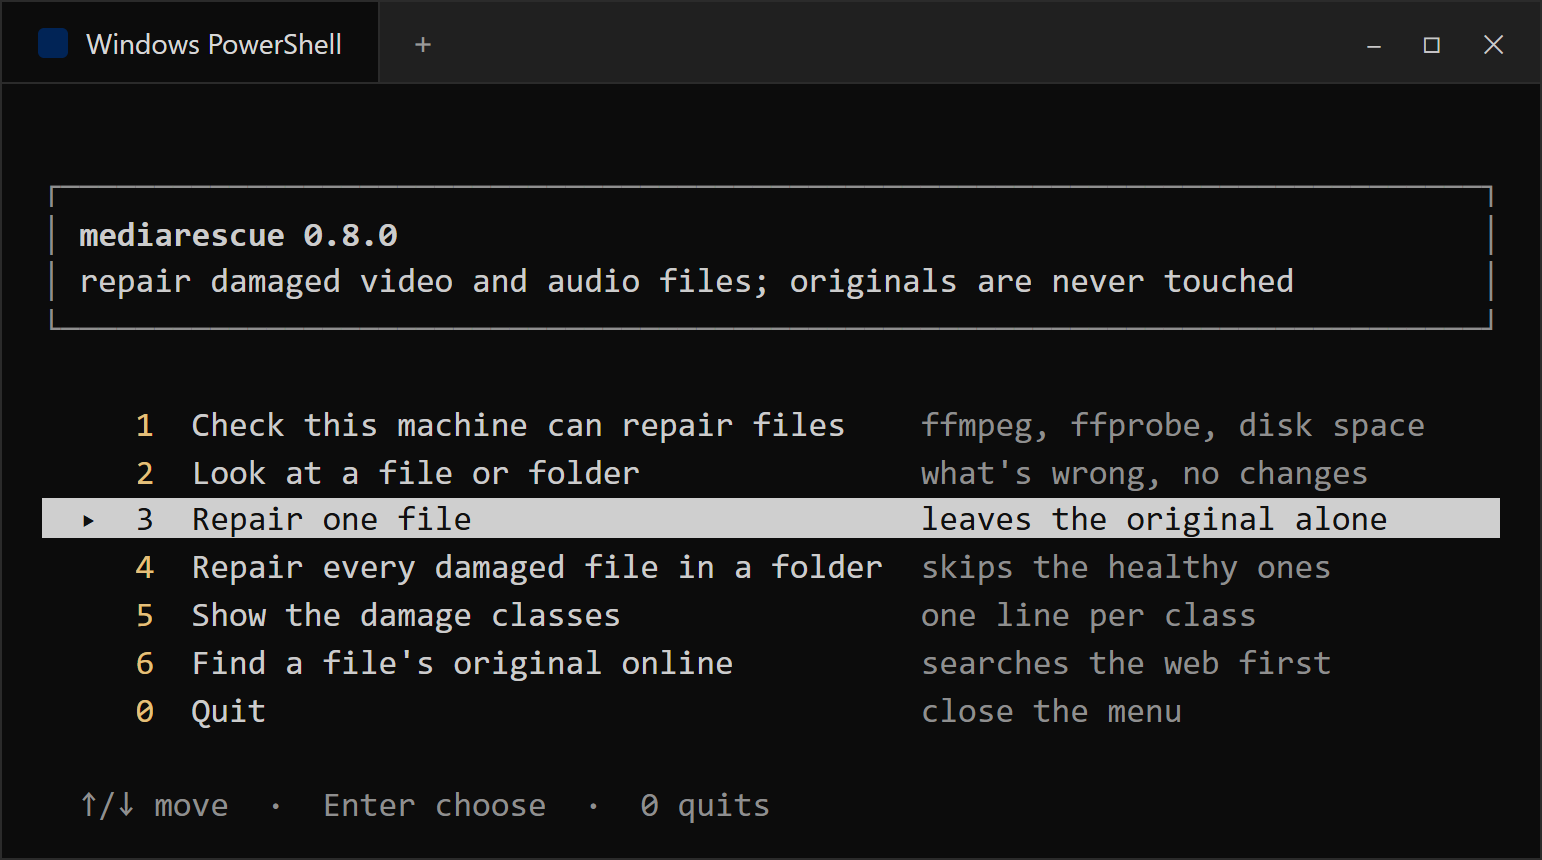
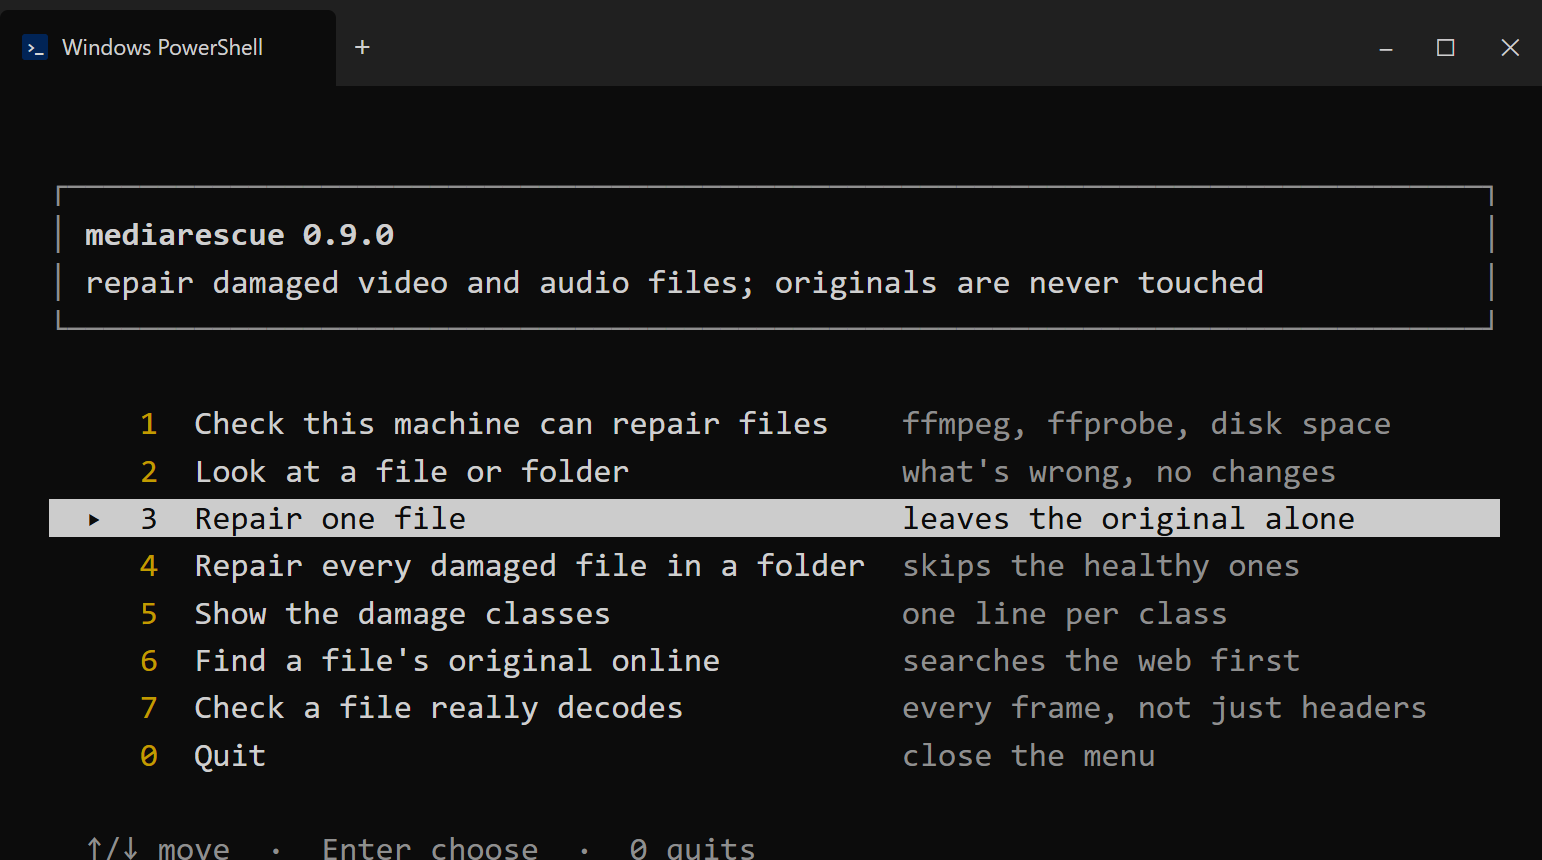
docs: 0.9.0 changelog, README sections for the Matroska transplant and verify, fresh menu.png
README gains the mkv-headless damage class, the salvage-mkv strategy, a section on a Matroska whose header is gone (what the transplant keeps and what is simply gone), the verify command, and the honest-limits entry is rewritten now that Matroska headers are inspected. The menu sample block and the menu screenshot match the program's real output; the image keeps the terminal style and palette of the previous one.

diff --git a/README.md b/README.md
@@ -75,7 +75,7 @@ mediarescue doctor
 ```
 
 ```
-mediarescue 0.8.0 — doctor
+mediarescue 0.9.0 — doctor
 
   ok    python        3.14.9
   ok    ffmpeg        ffmpeg version N-127043-g5a54fcf75e-20260930
@@ -104,17 +104,20 @@ No flags to remember: run `mediarescue` with no arguments in a terminal and you 
 ![mediarescue all-in-one menu: a highlighted row, plain-language hints, and arrow-key controls](docs/menu.png)
 
 ```
-┌────────────────────────────────────────────────────────────────────────────┐
-│ mediarescue 0.8.0                                                          │
-│ repair damaged video and audio files; originals are never touched          │
-└────────────────────────────────────────────────────────────────────────────┘
+┌──────────────────────────────────────────────────────────────────────────────┐
+│ mediarescue 0.9.0                                                            │
+│ repair damaged video and audio files; originals are never touched            │
+└──────────────────────────────────────────────────────────────────────────────┘
+
      1  Check this machine can repair files    ffmpeg, ffprobe, disk space
      2  Look at a file or folder               what's wrong, no changes
   ▸  3  Repair one file                        leaves the original alone
      4  Repair every damaged file in a folder  skips the healthy ones
      5  Show the damage classes                one line per class
      6  Find a file's original online          searches the web first
+     7  Check a file really decodes            every frame, not just headers
      0  Quit                                   close the menu
+
   ↑/↓ move  ·  Enter choose  ·  0 quits
 ```
 
@@ -156,8 +159,9 @@ with your own path already filled in. Add `--out report.json` to keep the full d
 `C:\media` in that screenshot is a placeholder folder, not a real machine; the paths are otherwise
 exactly what the tool printed.
 
-That reads headers only. Add `--deep` to decode every file as well — slower, but it is the only
-way to catch damage inside MP3/MKV/AVI, or a junk payload hiding behind a perfect index:
+That reads headers only — for Matroska it also confirms the EBML header, `Info` and `Tracks`
+parse. Add `--deep` to decode every file as well — slower, but it is the only way to catch damage
+inside MP3/AVI, or a junk payload hiding behind a perfect index or behind intact Matroska headers:
 
 ```bash
 mediarescue scan "D:/broken-file" --deep
@@ -219,6 +223,20 @@ mediarescue fix "D:/broken-file" --out-dir "D:/fixed"
 inside. A full decode is the real test — **silence means it worked**:
 
 ```bash
+mediarescue verify "D:/fixed/clip.mp4"
+```
+
+```
+clean       12.08s  clip.mp4  every frame decoded
+```
+
+`verify` runs the same decode-and-count check `fix` applies to its own output, so you can put a
+file repaired by anything — this tool, another program, a friend's laptop — through the same gate.
+Exit code `0` means every frame decoded, `1` means decode errors (it prints how many and the first
+one), `2` a missing file, `3` no ffmpeg. `--seconds 30` checks only the opening half-minute,
+`--json` gives the same result as data. The raw command behind it is:
+
+```bash
 ffmpeg -v error -i "D:/fixed/clip.mp4" -f null -
 ```
 
@@ -234,14 +252,15 @@ Nothing printed means the frames really decode. Then open the file and look at i
 | Starts mid-scene, first seconds are garbage | `mediarescue fix broken.mp4 -o fixed.mp4` (`auto` picks `salvage`) |
 | Video plays, audio clicks or drops out | run the decode check first; audio payload that is gone cannot be invented |
 | File is 0 bytes | nothing to recover — re-download or restore a backup |
+| MKV/WebM will not open at all, `scan` says `mkv-headless` | `mediarescue fix broken.mkv --reference intact.mkv -o fixed.mkv` |
 | Everything already looks fine | `mediarescue fix good.mp4 -o copy.mp4` rewrites the container cleanly |
 | Damaged file, and you have no intact copy anywhere | `mediarescue source bad.mp4` searches the web for the original and repairs with it |
 
 ## The one thing that trips everyone up: `--reference`
 
-Two damage classes — `fragmented` and `missing-atoms` — mean the file lost the index that says
-*where each frame starts*. That index cannot be guessed back, so the tool needs a second,
-undamaged file to borrow the layout from:
+Three damage classes — `fragmented`, `missing-atoms` and `mkv-headless` — mean the file lost the
+index or header that says *where each frame starts* and *what each track is*. That cannot be
+guessed back, so the tool needs a second, undamaged file to borrow the layout from:
 
 ```bash
 mediarescue fix dash-segment.mp4 --reference intact.mp4 -o fixed.mp4
@@ -259,6 +278,75 @@ What counts as a good reference:
 No reference anywhere? The tool looks for one itself: a healthy file **in the same folder** whose
 video codec matches is picked automatically, and the choice is reported in the output
 (`"reference": "…"`). Only when that fails does it fall back to `--strategy carve`.
+
+## A Matroska file whose header is gone
+
+An MKV, MKA or WebM starts with an EBML header, then `Info` (timescale, title) and `Tracks` (one
+entry per stream: codec, resolution, sample rate). Cut off the front of the file — an interrupted
+copy, a resume that landed at the wrong offset, a camera that lost power — and every cluster after
+the damage is still intact, but nothing says which track number carries video and which carries
+audio. `ffmpeg` will not even open the file: *EBML header parsing failed*.
+
+`scan` names it `mkv-headless`, with the byte offset of the first intact cluster:
+
+```
+severity                bytes  fix  file
+mkv-headless          590,643  yes  D:\broken\lecture.mkv
+healthy               908,681  yes  D:\broken\lecture-full.mkv
+
+2 scanned, 1 damaged, 1 repairable, 1 need a reference file
+next: mediarescue fix "D:\broken" --out-dir "D:\broken\recovered"
+those need --reference: an intact file recorded the same way, see --help
+```
+
+A reference is required, and this is the one case where that is not a limitation of the tool: the
+track table existed in the header and nowhere else, so there is nothing in the damaged bytes to
+rebuild it from. What the repair does instead is a transplant:
+
+- copy the reference's EBML header, `Info` and `Tracks` verbatim;
+- write a new `Segment` of unknown size and append the damaged file's clusters, starting at the
+  first intact one;
+- rewrite each cluster's `Timestamp` so playback starts at zero;
+- drop the old `Cues` (they described the clusters that are gone) and remux, so `ffmpeg` writes a
+  fresh index.
+
+Nothing is re-encoded, and the damaged file is only ever read:
+
+```bash
+mediarescue fix "D:/broken/lecture.mkv" --reference "D:/broken/lecture-full.mkv" -o "D:/fixed/lecture.mkv"
+```
+
+```
+working: salvage-mkv → lecture.repaired.mkv
+diagnosis: mkv-headless — the EBML header is gone, but an intact Cluster starts at byte 42,752:
+           the clusters after it carry everything except the track table, which any healthy file
+           of the same source can supply
+{
+  "ok": true,
+  "output": "D:/fixed/lecture.mkv",
+  "notes": [
+    "rebuilt Info and Tracks for 2 track(s) from the reference: the first 7.941s were cut away with the original header",
+    "the old Cues were dropped with the header; the remux writes a fresh index",
+    "reference picked automatically: lecture-full.mkv"
+  ],
+  "dropped_seconds": 7.941,
+  "clusters": 6,
+  "reference": "D:/broken/lecture-full.mkv",
+  "verify": { "ok": true, "decode_errors": 0 },
+  "strategy": "salvage-mkv",
+  "source_untouched": true
+}
+```
+
+Leave out `--reference` and it looks for a healthy Matroska beside the damaged file (same folder,
+sub-folders, one level up), ranked by shared name words then by size, and it will try each
+candidate in turn — a reference can match the name and the size and still be a different encode,
+so every attempt is decoded in full before it is accepted. `--find-source` goes online for the
+original when nothing local fits.
+
+What it cannot give back: the seconds before the first intact cluster (`dropped_seconds`), the
+original `Cues`, and tags, chapters and attachments that lived in the header. Those bytes are
+gone, so the output simply does not have them rather than pretending to.
 
 ## When the intact file is online instead of on your disk
 
@@ -364,7 +452,8 @@ This is a repair tool, not a magic wand:
 | `fragmented` | starts at `moof`/`mdat`, init segment lost | `flatten` (or `carve` without a reference) | yes |
 | `missing-atoms` | `ftyp`+`mdat` present, `moov` gone | `graft` (or `carve` without a reference) | yes |
 | `corrupt-index` | AVI: `idx1` missing, or its entries point past the chunk they name | `remux` with `+ignidx` | no |
-| `headerless` | no parsable box, large zero regions | not repairable locally | — |
+| `mkv-headless` | Matroska/WebM: EBML header cut, `Info`+`Tracks` gone, clusters intact | `salvage-mkv` (transplant the head) | yes |
+| `headerless` | no parsable box or cluster at offset 0 | not repairable locally | — |
 | `empty` | 0 bytes | not repairable | — |
 
 ### Strategies
@@ -388,6 +477,12 @@ This is a repair tool, not a magic wand:
   `KEY_FRAME` — and stream-copies from that timestamp. The cut is reported, so you know exactly
   how much was lost and how much is bit-identical. Nothing is re-encoded, and the corrupt head is
   dropped rather than concealed — a frozen frame over dead data helps nobody.
+- **salvage-mkv** — for a Matroska whose EBML header, `Info` and `Tracks` were cut away. Copies
+  the reference's header, `Info` and `Tracks`, writes a `Segment` of unknown size, appends the
+  damaged file's clusters from the first intact one, rebases every cluster timestamp to zero and
+  drops the stale `Cues`, then remuxes so a fresh index is written. No re-encode; it refuses when
+  the reference has no `Info`/`Tracks`, when the damaged file has no cluster left, or when the
+  damaged clusters use a track number the reference does not define.
 - **carve** — the last resort when the index is gone *and* there is no reference file: walk the
   raw `mdat` for length-prefixed NAL units, rebuild an Annex-B stream and let ffmpeg write a
   fresh index. It needs two things the file may not have: **SPS/PPS in-band** (encoders usually
@@ -396,8 +491,9 @@ This is a repair tool, not a magic wand:
   the index). It recovers **video only**, and the frame rate is assumed — pass `--fps` to correct
   it. When either condition fails it says so instead of writing a file that looks fine.
 
-Force one explicitly with `--strategy trim|remux|graft|flatten|salvage|carve`. If audio and video
-durations still disagree after a `flatten`, give every track one clock with `--timescale 90000`.
+Force one explicitly with
+`--strategy trim|remux|graft|flatten|salvage|salvage-mkv|carve`. If audio and video durations still
+disagree after a `flatten`, give every track one clock with `--timescale 90000`.
 
 ```bash
 # No index and no reference file: rebuild what the payload still holds
@@ -412,10 +508,17 @@ mediarescue fix damaged.mp4 -o rebuilt.mp4 --strategy carve --fps 30
   require **zero** output lines.
 - `corrupt-payload` is decided by parsing the first video sample: H.264 must tile as
   length-prefixed NALs, AV1 must frame as OBUs. Anything else counts as junk.
-- Damage inside **MP3, WAV, FLAC, OGG, AAC, MKA, MKV, AVI, GIF and WEBP is not inspected by the
-  header scan**: those containers are reported as `healthy` as soon as they are readable, so a
-  file with a mangled middle still scans clean. `scan --deep` catches it by decoding, and
-  `fix --deep` applies the same check to the input.
+- Damage inside **MP3, WAV, FLAC, OGG, AAC, GIF and WEBP** is not inspected by the header scan:
+  those containers are reported as `healthy` as soon as they are readable, so a file with a
+  mangled middle still scans clean. AVI gets its index checked, Matroska is checked one level
+  deeper — the EBML header, `Info` and `Tracks` must parse — but neither payload is walked.
+  `scan --deep` catches all of it by decoding, and `fix --deep` applies the same check to the
+  input.
+- `mkv-headless` needs a reference that describes the same tracks: the transplant copies the
+  reference's codec configuration, so a 1080p reference for a 720p recording produces a file that
+  opens and plays at the wrong geometry instead of failing. The automatic pick is tried and
+  decoded in full before it is accepted; a hand-picked `--reference` is trusted, so match the
+  source.
 - AV1 is cut at its own KEY_FRAME now, but a damaged AV1 head is only recoverable when a later
   keyframe exists **and** the sequence header travels in-band; otherwise nothing can decode it.
 - `carve` works only when SPS/PPS travel in-band and video samples are contiguous; it recovers

diff --git a/CHANGELOG.md b/CHANGELOG.md
@@ -1,5 +1,41 @@
 # Changelog
 
+## 0.9.0
+
+Matroska files that lost their head used to be a dead end: `ffmpeg` refuses them outright, the
+scan called them healthy as soon as the bytes were readable, and no flag could help. They are now
+a named damage class with a repair that keeps every intact frame.
+
+- **New damage class: `mkv-headless`.** An MKV, MKA or WebM whose EBML header was cut away —
+  interrupted copy, a resume at the wrong offset, a camera that died mid-write — still has intact
+  clusters after the cut, but nothing left that says which track is video, which is audio, or what
+  codec either uses. `scan` now finds the first intact cluster, reports its byte offset, and names
+  the file `mkv-headless` instead of `healthy`. `.webm` is scanned at all for the first time.
+- **New strategy: `salvage-mkv`.** It transplants the missing head: the reference's EBML header,
+  `Info` and `Tracks` are copied verbatim, a `Segment` of unknown size is written, the damaged
+  file's clusters are appended from the first intact one, every cluster `Timestamp` is rebased so
+  playback starts at zero, and the stale `Cues` are dropped. The result is remuxed so `ffmpeg`
+  writes a fresh index. Nothing is re-encoded and the damaged file is never written to.
+- **It refuses rather than guesses.** No `Info`/`Tracks` in the reference, no cluster left in the
+  damaged file, or a track number in the damaged clusters that the reference does not define —
+  each ends the attempt with a reason. With no `--reference`, a healthy Matroska next to the file
+  is tried (same folder, sub-folders, one level up), best name match first, and every candidate is
+  decoded in full before its output is kept; `--find-source` falls back to the web.
+- **New command: `mediarescue verify`.** Decodes one or more files in full and says whether every
+  frame came out: exit `0` clean, `1` decode errors, `2` missing file, `3` no ffmpeg. `--seconds`
+  limits the check, `--json` makes it scriptable. It is the same gate `fix` applies to its own
+  output, now available for files another tool repaired.
+- **The menu gained a row**, `7  Check a file really decodes`, and the damage-class list includes
+  `mkv-headless`. The frame still fits 80 columns.
+- **`scan`'s `next:` hint now keeps `--deep`.** A scan that needed a decode to see the damage used
+  to suggest a plain `fix`, which re-diagnoses each file and would have called those files
+  healthy — the one line that is supposed to save you from guessing sent you the wrong way.
+- **The EBML work is a real parser, not a byte hunt.** `ebml.py` reads IDs, sizes (including the
+  unknown-size form), children and unsigned integers; `mkv.py` uses it to decide health, rank
+  references and write the transplant.
+- `pytest -q` is 879 passed, `ruff check .` is clean, and the rule set in `pyproject.toml` is
+  unchanged.
+
 ## 0.8.0
 
 Small things that made the tool feel unfinished, plus two rules that were quietly not kept.
